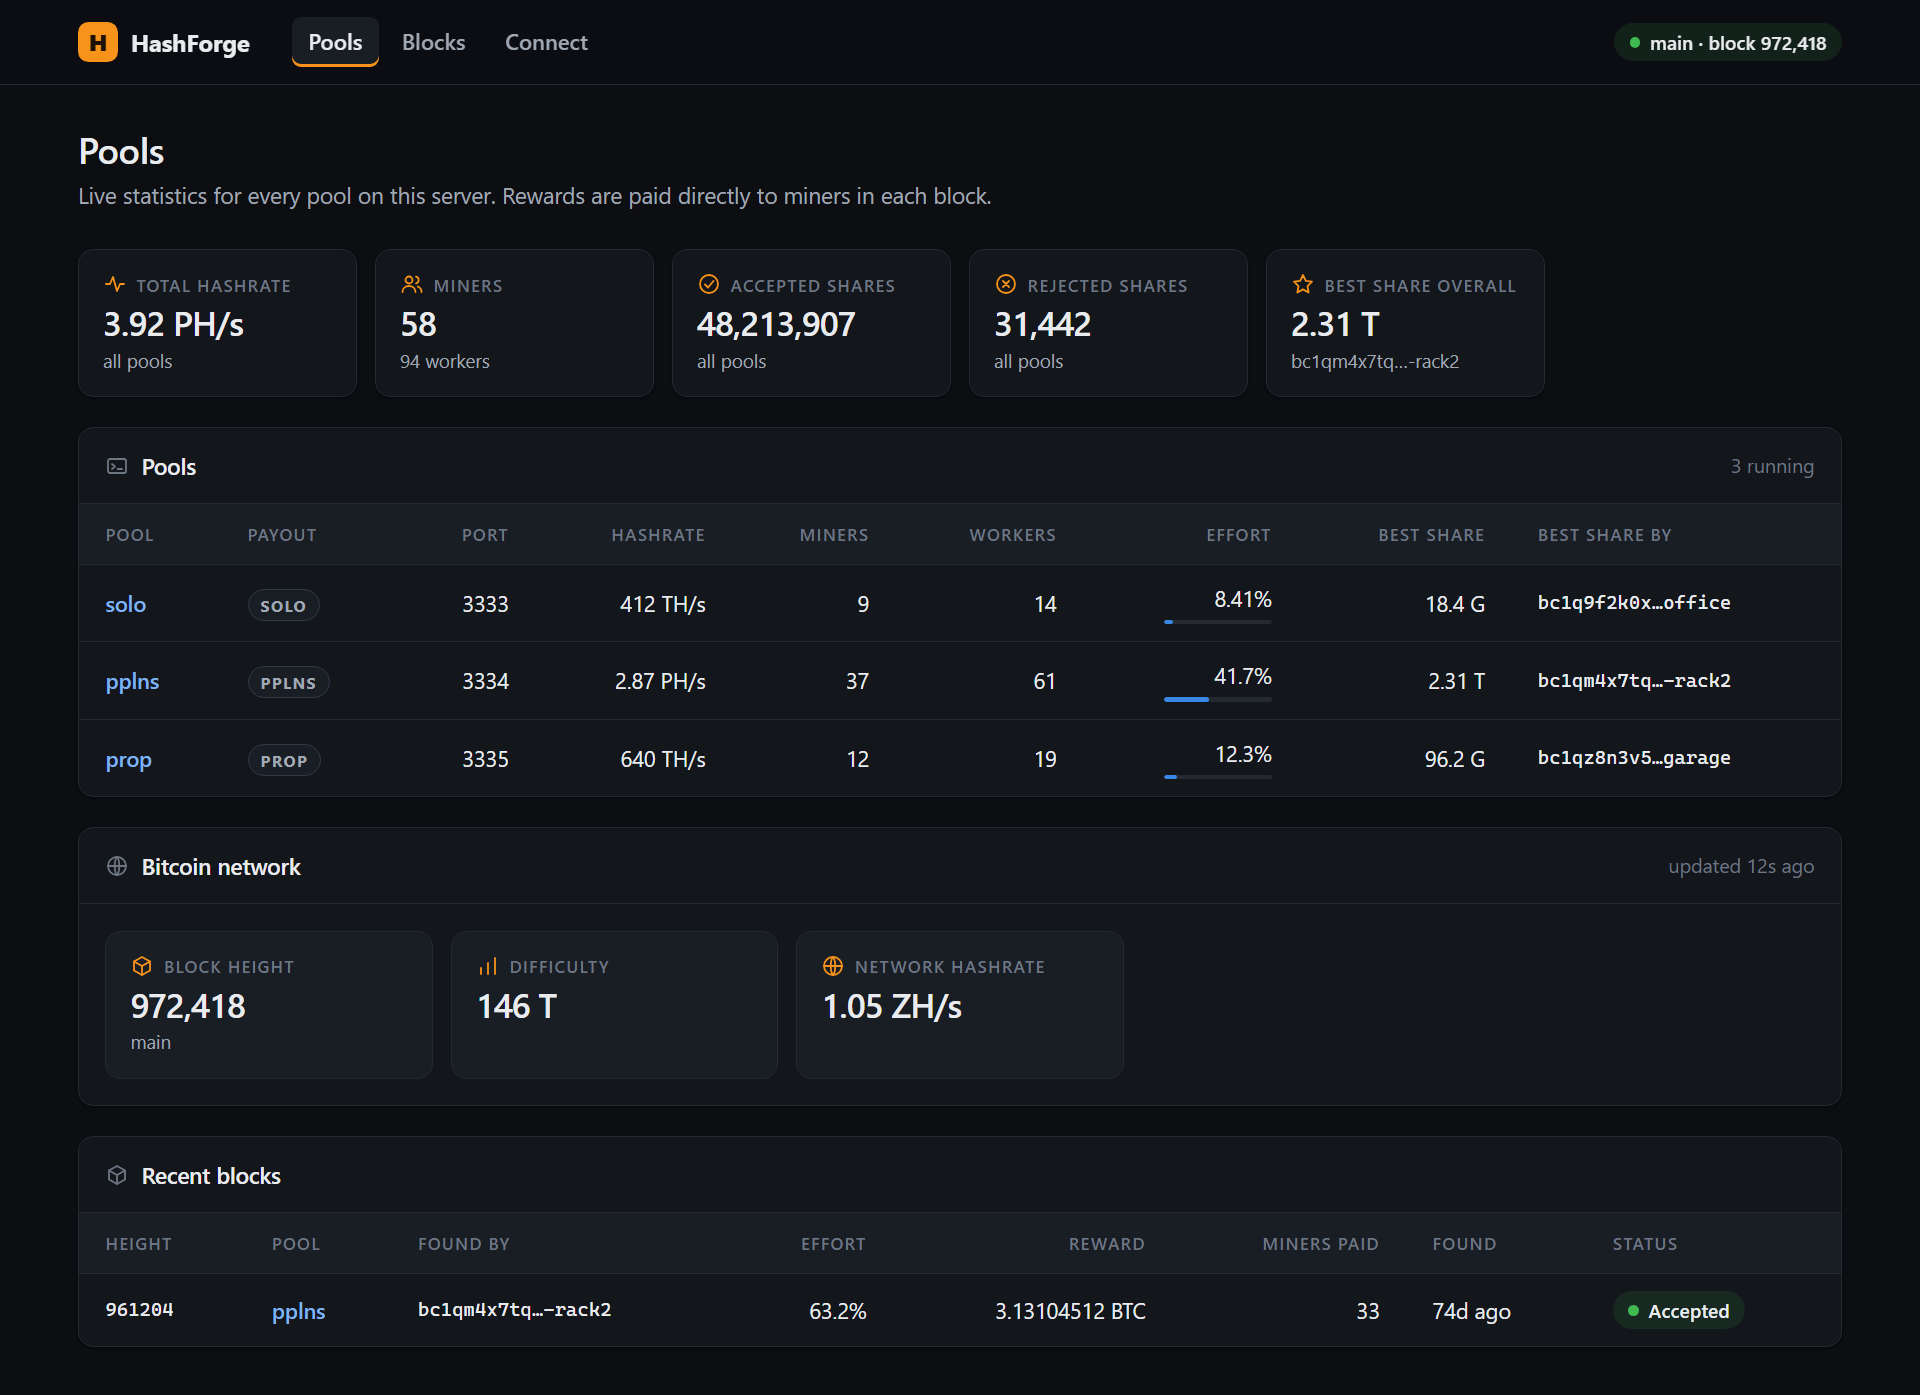
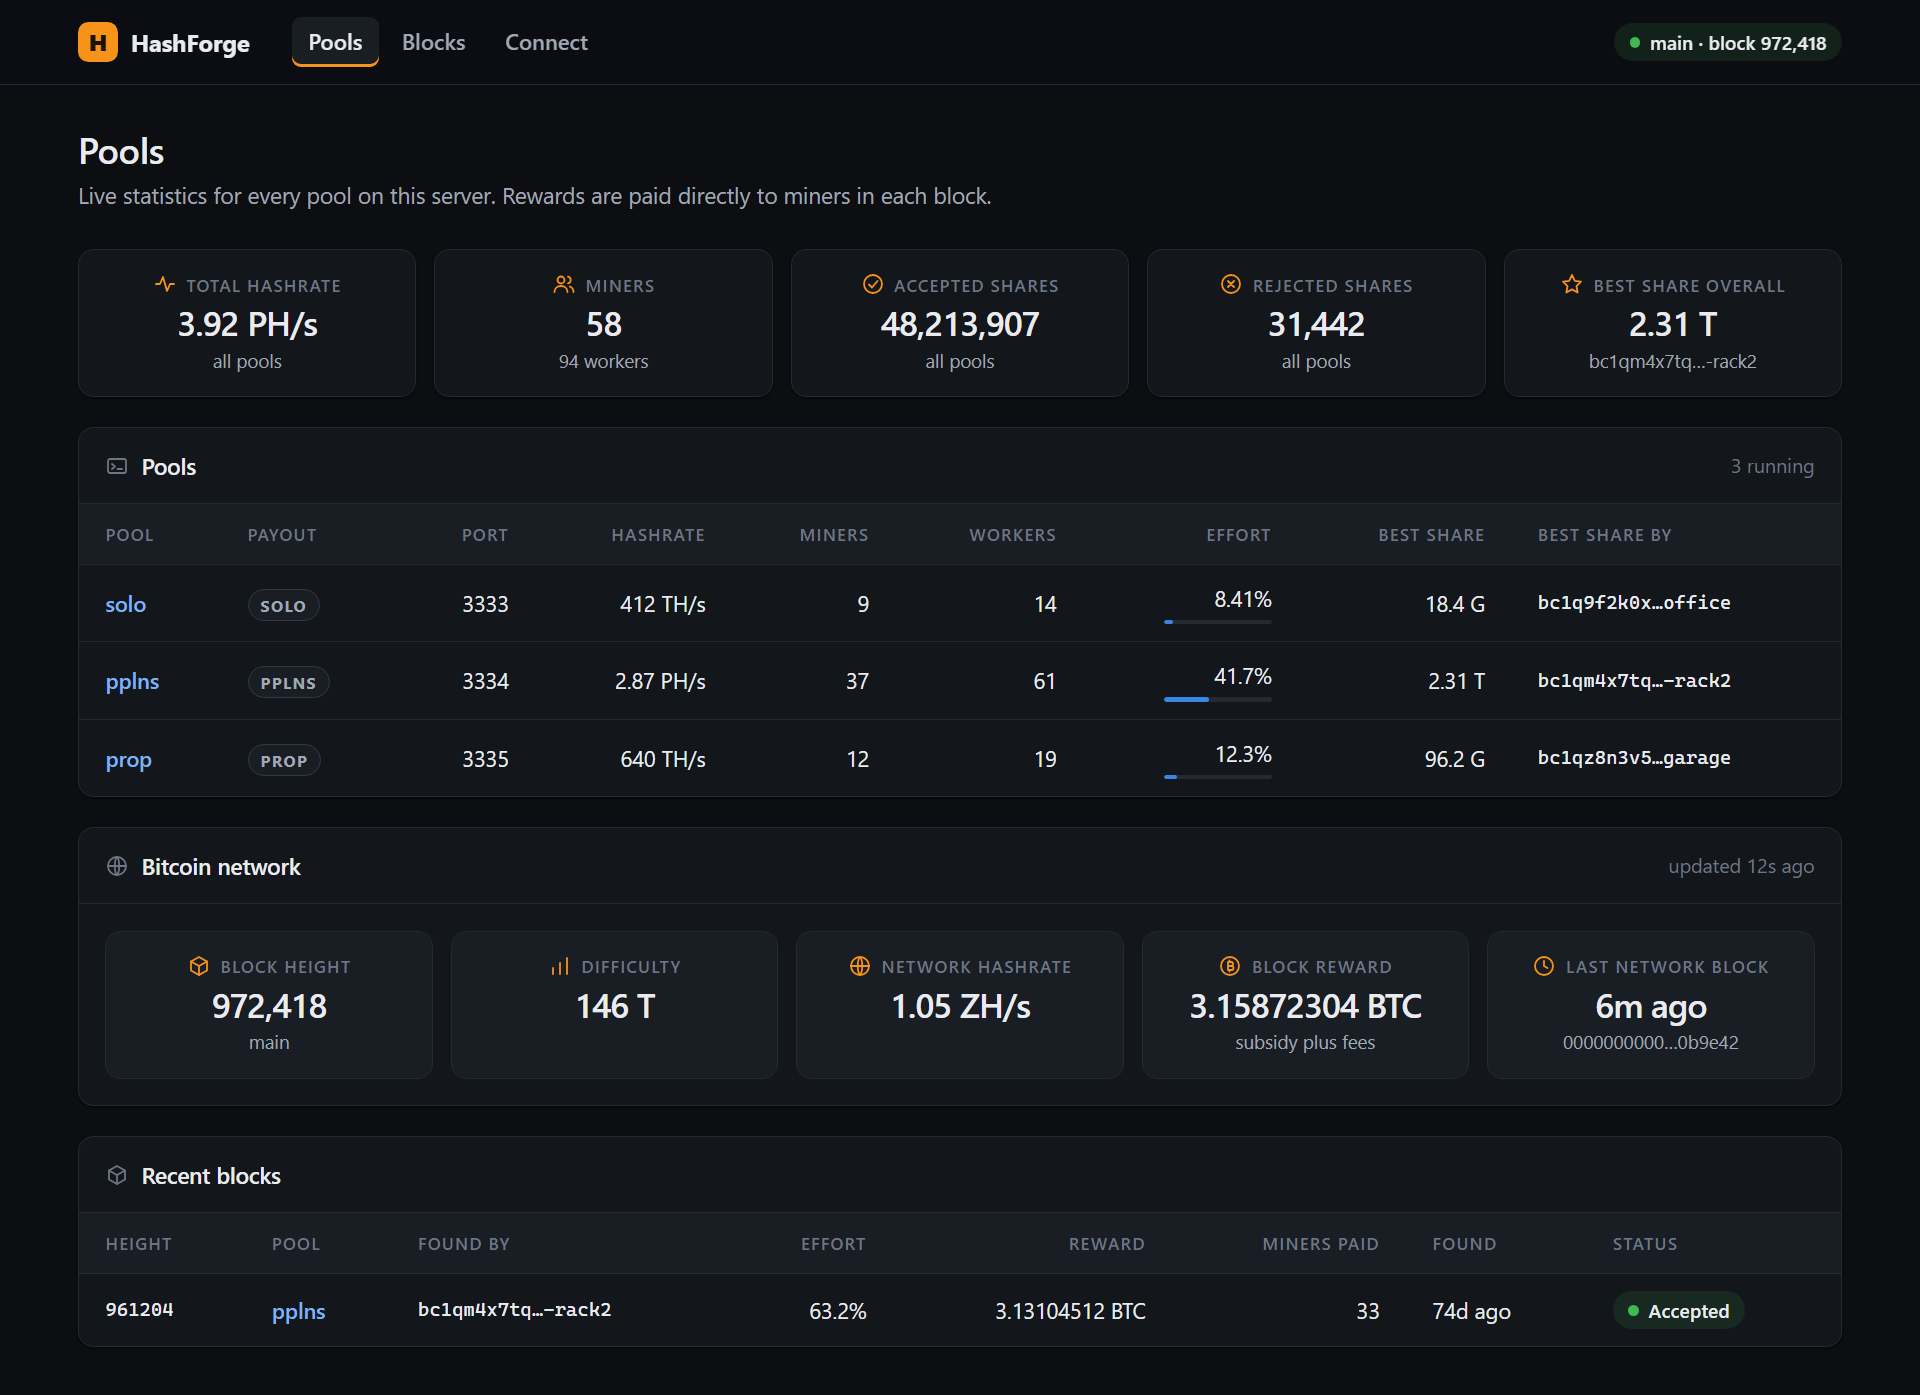
Home page: show block reward and last network block, centre stat tiles
- Add the current block reward (subsidy plus fees, from the template
  being mined) and the time of the last network block to the Bitcoin
  network section
- Centre the stat tiles and their contents on every page
- Refresh the README screenshot

diff --git a/src/HashForge.Web/wwwroot/app.css b/src/HashForge.Web/wwwroot/app.css
@@ -127,16 +127,16 @@ img.brand-mark { background: none; object-fit: contain; }
 .card-foot { padding: 0.75rem 1.1rem; border-top: 1px solid var(--border); color: var(--text-muted); font-size: 0.82rem; }
 
 /* ---------- Stat tiles ---------- */
-.tiles { display: grid; grid-template-columns: repeat(auto-fill, minmax(11.5rem, 1fr)); gap: 0.75rem; margin: 0 0 1.25rem; }
+.tiles { display: flex; flex-wrap: wrap; justify-content: center; gap: 0.75rem; margin: 0 0 1.25rem; }
 .card-body > .tiles { margin: 0; }
-.tile { display: flex; flex-direction: column; gap: 0.15rem; min-width: 0; padding: 0.9rem 1rem; background: var(--surface); border: 1px solid var(--border); border-radius: var(--radius); box-shadow: var(--shadow); }
+.tile { display: flex; flex-direction: column; align-items: center; text-align: center; gap: 0.15rem; flex: 1 1 11.5rem; max-width: 15rem; min-width: 0; padding: 0.9rem 1rem; background: var(--surface); border: 1px solid var(--border); border-radius: var(--radius); box-shadow: var(--shadow); }
 .card-body .tile { background: var(--surface-raised); box-shadow: none; }
 .tile-label { font-size: 0.72rem; font-weight: 600; letter-spacing: 0.06em; text-transform: uppercase; color: var(--text-muted); }
 .tile-value { font-size: 1.4rem; font-weight: 600; line-height: 1.25; letter-spacing: -0.02em; font-variant-numeric: tabular-nums; overflow-wrap: anywhere; }
 .tile-hint { font-size: 0.78rem; color: var(--text-secondary); overflow-wrap: anywhere; }
 
 .icon { width: 1rem; height: 1rem; flex: none; fill: none; stroke: currentColor; stroke-width: 1.8; stroke-linecap: round; stroke-linejoin: round; }
-.tile-label { display: flex; align-items: center; gap: 0.4rem; }
+.tile-label { display: flex; align-items: center; justify-content: center; gap: 0.4rem; }
 .tile-label .icon { color: var(--accent); }
 .card-head h2 { display: flex; align-items: center; gap: 0.5rem; }
 .card-head h2 .icon { color: var(--text-muted); }

diff --git a/tests/HashForge.Web.UnitTests/ComponentTests.cs b/tests/HashForge.Web.UnitTests/ComponentTests.cs
@@ -1,7 +1,9 @@
 using System.Net;
 using Bunit;
 using HashForge.Domain;
+using HashForge.Domain.Formatting;
 using HashForge.Mining.History;
+using HashForge.Mining.Jobs;
 using HashForge.Mining.Pools;
 using HashForge.Mining.Statistics;
 using HashForge.Stratum.Sessions;
@@ -119,6 +121,7 @@ public sealed class ComponentTests : WebTestContext
         Overview.GetBestShare().Returns(new BestShare(7.7e12, "bc1qbob.s21", Now));
         NetworkStats.Current.Returns(Network());
         Blocks.GetRecentAsync(5, Arg.Any<CancellationToken>()).Returns([Block()]);
+        Templates.Status.Returns(new TemplateStatus("00ab", Now) { RewardSatoshis = 312_600_000 });
 
         var home = Render<Home>();
 
@@ -129,6 +132,10 @@ public sealed class ComponentTests : WebTestContext
         Assert.Contains("bc1qbob.s21", home.Markup);
         Assert.Contains("850,000", home.Markup);
         Assert.Contains("650 EH/s", home.Markup);
+        Assert.Contains("3.12600000 BTC", home.Markup);
+        Assert.Contains("subsidy plus fees", home.Markup);
+        Assert.Contains("Last network block", home.Markup);
+        Assert.Contains("4m ago", home.Markup);
         Assert.Contains("850001", home.Markup);
         Assert.Empty(home.FindAll(".notice"));
     }
@@ -637,5 +644,16 @@ public sealed class ComponentTests : WebTestContext
         Assert.Equal("Hashrate", tile.Find(".tile-label").TextContent);
         Assert.Single(card.FindAll("h2 svg.icon"));
         Assert.Equal("Pools", card.Find("h2").TextContent);
+    }
+
+    [Fact]
+    public void GIVEN_Home_WHEN_NoWorkHasBeenFetchedYet_THEN_BlockRewardShowsADash()
+    {
+        NetworkStats.Current.Returns(Network());
+
+        var home = Render<Home>();
+
+        var reward = home.FindAll(".tile").Single(t => t.TextContent.Contains("Block reward"));
+        Assert.Equal(Display.None, reward.QuerySelector(".tile-value")!.TextContent);
     }
 }

diff --git a/tests/HashForge.Web.UnitTests/WebTestContext.cs b/tests/HashForge.Web.UnitTests/WebTestContext.cs
@@ -1,6 +1,7 @@
 using Bunit;
 using HashForge.Domain;
 using HashForge.Mining.History;
+using HashForge.Mining.Jobs;
 using HashForge.Mining.Network;
 using HashForge.Mining.Pools;
 using HashForge.Mining.Shares;
@@ -42,6 +43,8 @@ public abstract class WebTestContext : BunitContext
         Services.AddSingleton(Provisioner);
         Services.AddSingleton(Registry);
         Services.AddSingleton(AdminAccess);
+        Templates.Status.Returns(new TemplateStatus(null, DateTimeOffset.MinValue));
+        Services.AddSingleton(Templates);
     }
 
     protected FakeTimeProvider Time { get; } = new(Now);
@@ -66,6 +69,8 @@ public abstract class WebTestContext : BunitContext
 
     protected IPoolRegistry Registry { get; } = Substitute.For<IPoolRegistry>();
 
+    protected ITemplateRefresher Templates { get; } = Substitute.For<ITemplateRefresher>();
+
     protected IAdminAccessPolicy AdminAccess { get; } = Substitute.For<IAdminAccessPolicy>();
 
     protected static StatsSnapshot Stats(long accepted = 120, long rejected = 3, double hashrate = 2.5e12, double effort = 42.5, BestShare? best = null) =>
@@ -78,7 +83,7 @@ public abstract class WebTestContext : BunitContext
         new() { Name = name, Scheme = scheme, Port = port, FeeAddress = "bc1qfee", FeePercent = 1.5m };
 
     protected static NetworkStats Network(bool synced = true) =>
-        new("main", 850_000, synced ? 850_000 : 900_000, 9.2e13, 6.5e20, "00ab", !synced, synced ? 1 : 0.5, true, 12_000_000_000, Now.AddSeconds(-10));
+        new("main", 850_000, synced ? 850_000 : 900_000, 9.2e13, 6.5e20, "00ab", !synced, synced ? 1 : 0.5, true, 12_000_000_000, Now.AddSeconds(-10)) { LastBlockAt = Now.AddMinutes(-4) };
 
     protected static FoundBlock Block(bool accepted = true) => new(
         "pplns", PayoutScheme.Pplns, 850_001, new string('a', 64), new WorkerIdentity("bc1qalicealicealicealice", "rig1"),

diff --git a/tests/HashForge.Mining.UnitTests/Network/NetworkStatsTests.cs b/tests/HashForge.Mining.UnitTests/Network/NetworkStatsTests.cs
@@ -43,7 +43,7 @@ public sealed class NetworkStatsTests
         source.GetChainInfoAsync(Arg.Any<CancellationToken>()).Returns(new ChainInfo
         {
             Chain = "main", Blocks = 850_000, Headers = 850_001, BestBlockHash = "00ab", Difficulty = 9e13,
-            InitialBlockDownload = true, VerificationProgress = 0.5, Pruned = true, SizeOnDisk = 123,
+            InitialBlockDownload = true, VerificationProgress = 0.5, Pruned = true, SizeOnDisk = 123, Time = 1_700_000_000,
         });
         source.GetNetworkHashrateAsync(Arg.Any<CancellationToken>()).Returns(6e20);
         var store = new NetworkStatsStore();
@@ -52,7 +52,10 @@ public sealed class NetworkStatsTests
         await job.ExecuteAsync(CancellationToken.None);
 
         Assert.Equal(
-            new NetworkStats("main", 850_000, 850_001, 9e13, 6e20, "00ab", true, 0.5, true, 123, TestData.Now),
+            new NetworkStats("main", 850_000, 850_001, 9e13, 6e20, "00ab", true, 0.5, true, 123, TestData.Now)
+            {
+                LastBlockAt = DateTimeOffset.FromUnixTimeSeconds(1_700_000_000),
+            },
             store.Current);
         Assert.Equal(TimeSpan.FromSeconds(45), job.Interval);
         Assert.Equal("network-stats", job.Name);

diff --git a/src/HashForge.Web/Components/Shared/IconShapes.cs b/src/HashForge.Web/Components/Shared/IconShapes.cs
@@ -22,6 +22,7 @@ public static class IconShapes
         [IconKind.Storage] = """<ellipse cx="12" cy="6" rx="7.5" ry="3"/><path d="M4.5 6v12c0 1.7 3.4 3 7.5 3s7.5-1.3 7.5-3V6M4.5 12c0 1.7 3.4 3 7.5 3s7.5-1.3 7.5-3"/>""",
         [IconKind.Chain] = """<path d="M10 14a4 4 0 0 0 5.7 0l3-3a4 4 0 0 0-5.7-5.7l-1 1"/><path d="M14 10a4 4 0 0 0-5.7 0l-3 3a4 4 0 0 0 5.7 5.7l1-1"/>""",
         [IconKind.Connections] = """<path d="M9 3v5M15 3v5M6 8h12v3a6 6 0 0 1-12 0zM12 17v4"/>""",
+        [IconKind.Reward] = """<circle cx="12" cy="12" r="9"/><path d="M10 8h3a2 2 0 0 1 0 4h-3zM10 12h3.5a2 2 0 0 1 0 4H10zM10 8v8M11.5 6.5V8M11.5 16v1.5"/>""",
         [IconKind.Port] = """<rect x="3" y="5" width="18" height="14" rx="2"/><polyline points="7 10 10 12.5 7 15"/><path d="M12.5 15H17"/>""",
     };
 

diff --git a/src/HashForge.Mining/Network/NetworkStats.cs b/src/HashForge.Mining/Network/NetworkStats.cs
@@ -17,6 +17,9 @@ public sealed record NetworkStats(
     /// <summary>The chain name Bitcoin Core reports for a local regression-test network.</summary>
     public const string RegtestChain = "regtest";
 
+    /// <summary>When the newest block on the network was mined, if the node reported it.</summary>
+    public DateTimeOffset? LastBlockAt { get; init; }
+
     public bool IsSynced => !InitialBlockDownload && Height >= Headers;
 
     /// <summary>How far through verifying the chain the node is, from 0 to 100.</summary>

diff --git a/src/HashForge.Bitcoin/Rpc/ChainInfo.cs b/src/HashForge.Bitcoin/Rpc/ChainInfo.cs
@@ -16,6 +16,10 @@ public sealed record ChainInfo
     [JsonPropertyName("bestblockhash")]
     public string BestBlockHash { get; init; } = string.Empty;
 
+    /// <summary>The timestamp of the newest block, in seconds since the Unix epoch.</summary>
+    [JsonPropertyName("time")]
+    public long Time { get; init; }
+
     [JsonPropertyName("difficulty")]
     public double Difficulty { get; init; }
 

diff --git a/src/HashForge.Mining/Network/NetworkStatsJob.cs b/src/HashForge.Mining/Network/NetworkStatsJob.cs
@@ -31,6 +31,9 @@ public sealed class NetworkStatsJob(
             info.VerificationProgress,
             info.Pruned,
             info.SizeOnDisk,
-            timeProvider.GetUtcNow()));
+            timeProvider.GetUtcNow())
+        {
+            LastBlockAt = info.Time > 0 ? DateTimeOffset.FromUnixTimeSeconds(info.Time) : null,
+        });
     }
 }

diff --git a/src/HashForge.Web/Components/Shared/IconKind.cs b/src/HashForge.Web/Components/Shared/IconKind.cs
@@ -19,4 +19,5 @@ public enum IconKind
     Chain,
     Connections,
     Port,
+    Reward,
 }
